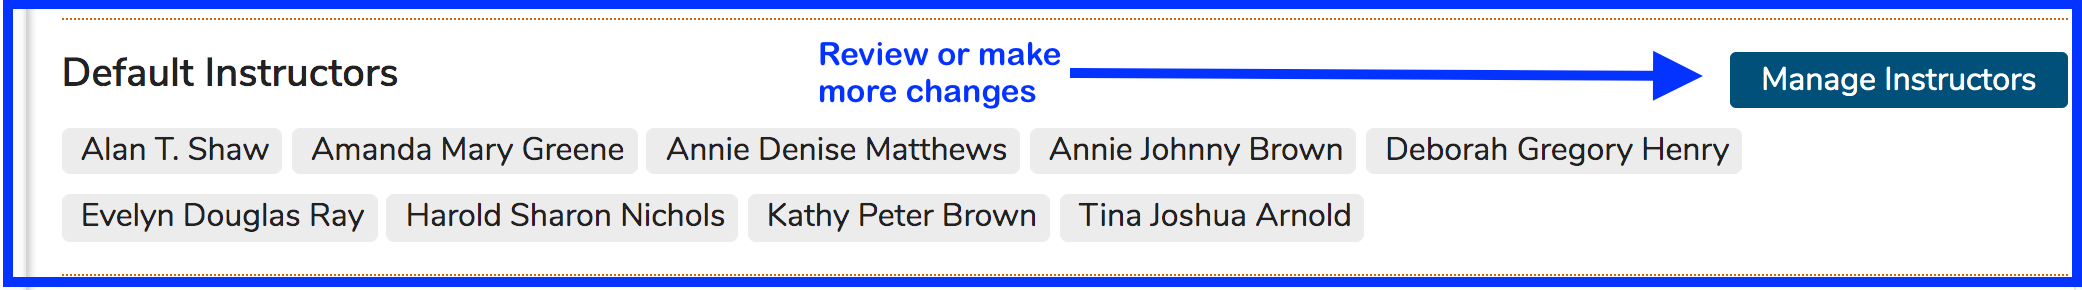
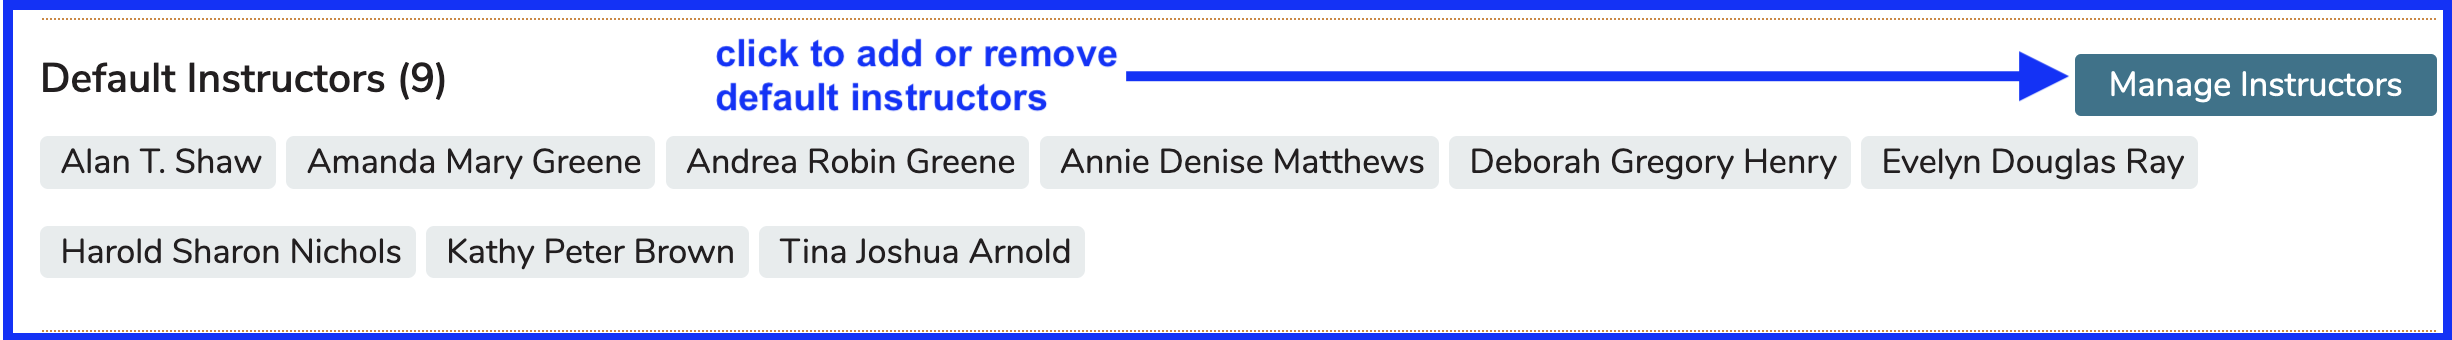
final image replaced - text updated - default instructors

Changed region(s): [[0.0, 0.0, 1.0, 1.0], [0.281, 0.1241, 0.999, 0.3724]]

diff --git a/learner-groups/learner-group-defaults.md b/learner-groups/learner-group-defaults.md
@@ -53,7 +53,7 @@ After performing the action shown above, all 7 members of the "BMB Anatomy Lab F
 
 After confirming by clicking the check box button ...
 
-![All Default Instructors are listed - review default instructors](../images/learner_group_defaults/default_instructor_review.png)
+![default instructors listed for review](../images/learner_group_defaults/default_instructor_review.png)
 
 ## Default Virtual Learning Link
 
